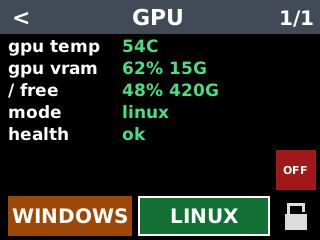
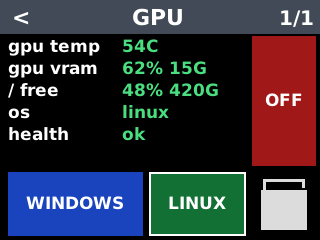
Show the live OS name when Linux is answering, and enlarge the GPU buttons.
A leftover no-reply was painted instead of linux and left the tile gray while the temperature was live. The four GPU controls are 64px so a tap lands on the button.

diff --git a/rpi_monitoring/collector/web/style.css b/rpi_monitoring/collector/web/style.css
@@ -80,7 +80,7 @@ h1.crit { color: var(--crit); }
 .block.ok .big { color: var(--ok); }
 .block.warn .big { color: var(--warn); }
 .block.crit .big { color: var(--crit); }
-.block.off .big, .block.stale .big { color: var(--off); }
+.block.off .big, .block.stale .big, .block.grey .big, .block.gray .big { color: var(--off); }
 .block.busy .big { color: var(--busy); }
 .block.idle .big { color: var(--idle); }
 .row {
@@ -99,7 +99,7 @@ h1.crit { color: var(--crit); }
 .row span.ok { color: var(--ok); }
 .row span.warn { color: var(--warn); }
 .row span.crit { color: var(--crit); }
-.row span.off, .row span.stale { color: var(--off); }
+.row span.off, .row span.stale, .row span.grey, .row span.gray { color: var(--off); }
 .row span.busy { color: var(--busy); }
 .row.head { color: var(--muted); font-size: 11px; }
 .os { margin-left: auto; font-size: 12px; letter-spacing: 0.04em; text-transform: lowercase; color: var(--ink); }

diff --git a/rpi_monitoring/collector/web/index.html b/rpi_monitoring/collector/web/index.html
@@ -4,7 +4,7 @@
 <meta charset="utf-8">
 <meta name="viewport" content="width=device-width, initial-scale=1">
 <title>LCD monitor</title>
-<link rel="stylesheet" href="/static/style.css?v=10">
+<link rel="stylesheet" href="/static/style.css?v=11">
 </head>
 <body>
 <main class="page">

diff --git a/rpi_monitoring/display/paint.go b/rpi_monitoring/display/paint.go
@@ -175,8 +175,17 @@ func (a *App) paintHome(ink color.Color) {
 	}
 }
 
+func (a *App) lockBox() image.Rectangle {
+	if a.Screen == scrDetail {
+		if t := a.cur(); t != nil && t.ID == "gpu" {
+			return gpuLockRect()
+		}
+	}
+	return lockRect()
+}
+
 func (a *App) paintLock() {
-	r := lockRect()
+	r := a.lockBox()
 	fill(a.Img, r, color.RGBA{0, 0, 0, 255})
 	ink := color.RGBA{220, 220, 220, 255}
 	if a.Locked {
@@ -210,7 +219,7 @@ func metricInk(state string) color.Color {
 		return color.RGBA{251, 191, 36, 255}
 	case "crit":
 		return color.RGBA{248, 113, 113, 255}
-	case "off", "stale":
+	case "off", "stale", "grey", "gray":
 		return color.RGBA{156, 163, 175, 255}
 	case "busy":
 		return color.RGBA{96, 165, 250, 255}
@@ -317,7 +326,7 @@ func (a *App) paintDetail(ink color.Color, headerOnly bool) {
 	if t.ID == "gpu" && len(btns) > 0 {
 		// Power is the right column. Rows stay to its left, above the lock row.
 		right = btns[0].Min.X - 4
-		textStop = lockRect().Min.Y - 4
+		textStop = gpuLockRect().Min.Y - 4
 	} else if len(btns) > 0 && t.ID == "backup" {
 		top := btns[0].Min.Y
 		for _, b := range btns {
@@ -810,17 +819,8 @@ func (a *App) hit(x, y int) string {
 	case scrDetail:
 		t := a.cur()
 		if t != nil && t.ID == "gpu" {
-			// Power is the lock-sized button above the icon. The corner beside the icon still locks.
-			if a.Page < len(t.Pages) {
-				acts := t.Pages[a.Page].Actions
-				btns := pageActionButtons(t.ID, len(acts))
-				if len(btns) > 0 && p.In(btns[0]) {
-					return "act:" + acts[0].ID
-				}
-			}
-			if p.In(lockHit()) {
-				return "lock"
-			}
+			// The four controls are the drawn rectangles. The wide lock corner
+			// used to sit on top of LINUX and eat the tap.
 			if a.Page < len(t.Pages) {
 				acts := t.Pages[a.Page].Actions
 				btns := pageActionButtons(t.ID, len(acts))
@@ -829,6 +829,9 @@ func (a *App) hit(x, y int) string {
 						return "act:" + act.ID
 					}
 				}
+			}
+			if p.In(gpuLockRect()) {
+				return "lock"
 			}
 		} else if p.In(lockHit()) {
 			return "lock"

diff --git a/rpi_monitoring/display/layout.go b/rpi_monitoring/display/layout.go
@@ -26,6 +26,17 @@ func lockRect() image.Rectangle {
 	return image.Rect(W-44, H-44, W-4, H-4)
 }
 
+// gpuSide is the short side of the four GPU controls.
+// The panel is 320×240. At 40px the power column was a 40×154 strip, and
+// WINDOWS and LINUX were 40px tall with ~50px of empty panel above them, so a
+// finger landed in the gap or on the lock corner. 64px is 8/5 of that and
+// still clears five 22px rows, which end at y=146.
+const gpuSide = 64
+
+func gpuLockRect() image.Rectangle {
+	return image.Rect(W-4-gpuSide, H-4-gpuSide, W-4, H-4)
+}
+
 func lockHit() image.Rectangle {
 	return image.Rect(W-78, H-78, W, H)
 }
@@ -72,14 +83,13 @@ func pageActionButtons(id string, n int) []image.Rectangle {
 		if n < 1 {
 			return nil
 		}
-		lock := lockRect()
+		lock := gpuLockRect()
 		gap := 6
-		// Power is the lock's column, from under the page number down to the lock.
+		// Power matches the lock: 64×130, from under the page number down to it.
 		power := image.Rect(lock.Min.X, headerH+2, lock.Max.X, lock.Min.Y-gap)
-		// Windows and Linux share the lock row, in proportion to the words, and stop before the lock corner.
-		corner := lockHit()
+		// WINDOWS and LINUX share the lock row, 7:5 by word length. 135×64 and 97×64.
 		rowLeft := 8
-		rowRight := corner.Min.X - gap
+		rowRight := lock.Min.X - gap
 		usable := rowRight - rowLeft - gap
 		winW := usable * 7 / 12
 		windows := image.Rect(rowLeft, lock.Min.Y, rowLeft+winW, lock.Max.Y)

diff --git a/rpi_monitoring/collector/test_checks.py b/rpi_monitoring/collector/test_checks.py
@@ -113,10 +113,17 @@ def test_detail_pages():
     assert next(r for r in alive["pages"][0]["rows"] if r[0] == "os")[1] == "linux"
     quiet = build({"gpu": {"on": True, "os": "linux", "os_phase": "failed", "os_error": "no reply", "temp": 40}})
     quiet = next(t for t in quiet if t["id"] == "gpu")
-    assert quiet["state"] == "off"
+    assert quiet["state"] == "ok"
+    assert quiet["big"] == "40C"
     os_row = next(r for r in quiet["pages"][0]["rows"] if r[0] == "os")
-    assert os_row[1] == "no reply" and os_row[2] == "off"
-    assert not any(a["current"] for a in quiet["pages"][0]["actions"])
+    assert os_row[1] == "linux" and os_row[2] == "ok"
+    linux_btn = next(a for a in quiet["pages"][0]["actions"] if a["id"] == "os_linux")
+    assert linux_btn["current"] is True
+    dark = build({"gpu": {"on": False, "os": "linux", "os_error": "no reply"}})
+    dark = next(t for t in dark if t["id"] == "gpu")
+    assert dark["state"] == "off"
+    assert dark["big"] == "OFF"
+    assert next(r for r in dark["pages"][0]["rows"] if r[0] == "os")[2] == "off"
     win = build({"gpu": {"on": False, "os": "windows", "temp": 47, "vram_free_mb": 20000, "vram_total_mb": 24576}})
     win = next(t for t in win if t["id"] == "gpu")
     win_rows = win["pages"][0]["rows"]

diff --git a/rpi_monitoring/display/journeys_test.go b/rpi_monitoring/display/journeys_test.go
@@ -66,15 +66,23 @@ func TestGpuButtonsStaySmall(t *testing.T) {
 	if a.hit(btns[2].Min.X+4, btns[2].Min.Y+4) != "act:os_linux" {
 		t.Fatal("linux")
 	}
-	if a.hit(80, 170) != "" {
-		t.Fatalf("above the lock row got %s", a.hit(80, 170))
+	// Five rows end near y=146. The button row starts at y=172, so the gap stays a miss.
+	if a.hit(80, 160) != "" {
+		t.Fatalf("above the buttons got %s", a.hit(80, 160))
 	}
-	// The corner around the icon locks, same as the other screens.
-	if a.hit(250, 170) != "lock" {
-		t.Fatal("lock corner")
+	// The old lock corner covered this point and stole LINUX. It is the gap now.
+	if a.hit(250, 200) != "" {
+		t.Fatalf("gap beside linux got %s", a.hit(250, 200))
 	}
 	if a.hit(W-8, H-8) != "lock" {
 		t.Fatal("lock icon")
+	}
+	lock := gpuLockRect()
+	if lock.Dx() != gpuSide || lock.Dy() != gpuSide {
+		t.Fatalf("lock %v", lock)
+	}
+	if btns[1].Dy() != gpuSide || btns[2].Dy() != gpuSide || btns[0].Dx() != gpuSide {
+		t.Fatalf("buttons %v", btns)
 	}
 	tap(a, "lock")
 	if !a.Locked {

diff --git a/rpi_monitoring/collector/checks.py b/rpi_monitoring/collector/checks.py
@@ -178,6 +178,10 @@ def _gpu_tile(gpu):
         phase = ""
         if os_name == "switching":
             os_name = "linux"
+    # A temperature on screen means that OS answered. A leftover "no reply"
+    # must not leave the tile gray while the number is live.
+    if err == "no reply" and gpu.get("temp") is not None and os_name in ("linux", "windows", "proxmox"):
+        err = ""
     show = os_name == "linux" or (os_name == "switching" and gpu.get("os_metrics")) or (not gpu.get("os") and on)
     watts = gpu.get("watts")
     watt_s = "" if watts is None else " " + str(int(round(watts))) + "W"
@@ -200,6 +204,8 @@ def _gpu_tile(gpu):
         big, l2 = "OFF", "since " + (gpu.get("off_since") or "--")
     else:
         big, l2 = _temp(gpu.get("temp")), vllm_bit + watt_s
+    if err == "no reply" and gpu.get("temp") is None:
+        big, l2 = "OFF", ""
     if show:
         node = {
             "cpu": gpu.get("cpu"),

diff --git a/rpi_monitoring/collector/os_switch.py b/rpi_monitoring/collector/os_switch.py
@@ -412,6 +412,12 @@ def snapshot(on):
             if state == "off" and on and not probe["remembered"]:
                 state = "linux"
             _set(phase="", error="")
+        # The OS is answering. A remembered "no reply" must not keep the tile gray.
+        if not local and error == "no reply" and (linux or windows):
+            phase = ""
+            error = ""
+            job = False
+            _set(phase="", error="")
         _mark_node(state)
         return {
             "os": state,

diff --git a/rpi_monitoring/display/theme.go b/rpi_monitoring/display/theme.go
@@ -24,7 +24,9 @@ func dayFill(state string) color.RGBA {
 		c = color.RGBA{0x1D, 0x4E, 0xD8, 255}
 	case "idle":
 		c = color.RGBA{0x1F, 0x29, 0x37, 255}
-	default: // off, stale, grey
+	case "off", "stale", "grey", "gray":
+		c = color.RGBA{0x4B, 0x55, 0x63, 255}
+	default:
 		c = color.RGBA{0x4B, 0x55, 0x63, 255}
 	}
 	return scale(c, 7, 8)

diff --git a/rpi_monitoring/AGENTS.md b/rpi_monitoring/AGENTS.md
@@ -54,7 +54,7 @@ Namespace `lcd-monitor`, LoadBalancer `192.168.0.124:8000` (pod listens on 8010,
 - Network up/down is a Cloudflare speed test (4MB down, 1MB up) in a background thread every 5 min, cached on the lease. Do not run it inside `assemble()` or the Pi GETs time out
 - Eateria tile color is prod only: red when the public and in-cluster GET both fail, or healthz fails, otherwise green. Dev is one inner row (`up`/`down`) and does not change the tile. Latency and Argo health are ignored. The big number is scans today. Inner rows are today vs yesterday, plus 7 days vs the 7 days before: scans, users, anon, ascans, 7d scans, 7d users (new accounts, anon included). 1 or more is green, 0 is grey. Counts are one SQL query on the eater DB. Today reply is protobuf. Do not use admin `/api/stats`
 - Backepr storage (`/api/dashboard/storage/staging` and `archive`) is fetched only while the GPU host is on. While it is off those calls take about 13s and the backup row shows staging `off`. The archive row keeps the last free size in the lease notes (`archive_free_gb`) instead of the word `idle`. Grey means that size is remembered, not a live reading. The LAN page draws the same tile actions as the LCD, including GPU Power, Windows and Linux, and confirms with the title and body
-- GPU tile has `os` (`linux`, `windows`, `off`, `switching`). Page 1 rows are gpu temp, gpu vram, / free, os, health. health is the worst of the GPU checks (green ok, yellow warn, red bad, grey off). Page 2 is cpu, ram free, gpu load, staging free, cpu temp, k8s. OpenClaw is page 3 and only when the host is on Linux. In Windows the tile is only the Windows readings (gpu temp, gpu load, gpu vram, os, health). Linux rows are not included. Page 1 buttons, lock-row height: WINDOWS yellow, LINUX green, lock. Power is a 40px box on top of the lock, red OFF when the host is on, blue ON when it is off. All three confirm. Hit targets are the drawn buttons, not the wide lock corner. Wake GPU stays on the backup screen
+- GPU tile has `os` (`linux`, `windows`, `off`, `switching`). Page 1 rows are gpu temp, gpu vram, / free, os, health. health is the worst of the GPU checks (green ok, yellow warn, red bad, grey off). A live temperature keeps that health color. Grey is when the host is off, or the OS did not reply and there is no temperature. Page 2 is cpu, ram free, gpu load, staging free, cpu temp, k8s. OpenClaw is page 3 and only when the host is on Linux. In Windows the tile is only the Windows readings (gpu temp, gpu load, gpu vram, os, health). Linux rows are not included. Page 1 buttons on the 320×240 panel: power, WINDOWS, LINUX, and the lock are 64px on the short side. Power is the right column from under the page number down to the lock, red OFF when the host is on, grey ON when it is off. WINDOWS is blue and LINUX is green, widths 7:5 (135×64 and 97×64). Hit targets are the drawn buttons. Wake GPU stays on the backup screen
 - London temperature is Open-Meteo `temperature_2m` for 51.51,-0.13, cached 15 min, field `temp_out`. `weather_code` sets `weather_alert` to `severe` (thunderstorm, heavy rain, heavy snow) or `warn`. The clock time stays white. The room temperature at the top right, the one you tap for the TEMP screen, turns red when `weather_alert` is `severe`. `weather_level` is the outdoor temperature band. The TEMP screen left side lists the BME680 and the outdoor forecast as matching rows (temp, humid, hPa), so the room can be compared with the forecast. Gas stays on the sensor only. The TEMP screen colors every room and forecast number: green in band, amber at the edge, red outside it. Humidity warn is under 30% or over 65%, red under 15% or over 80%. Pressure warn is under 1000 hPa or over 1030, red under 980 or over 1045. Gas warn is under 50 kΩ, red under 20 kΩ. The right column is the device chips. The Pi tile big number is the SoC (`soc` row, first on the Pi page). The BME680 temperature is the `temp` row under humidity, pressure, and gas. The SoC still colors the tile. Missing sensor falls back to the SoC and cap `cpu temp`
 - Argo: chart path `rpi_monitoring/collector/chart`. Application manifest is `rpi_monitoring/collector/argo/application.yaml` (not inside the chart). Public repo, HTTPS, no deploy key
 
